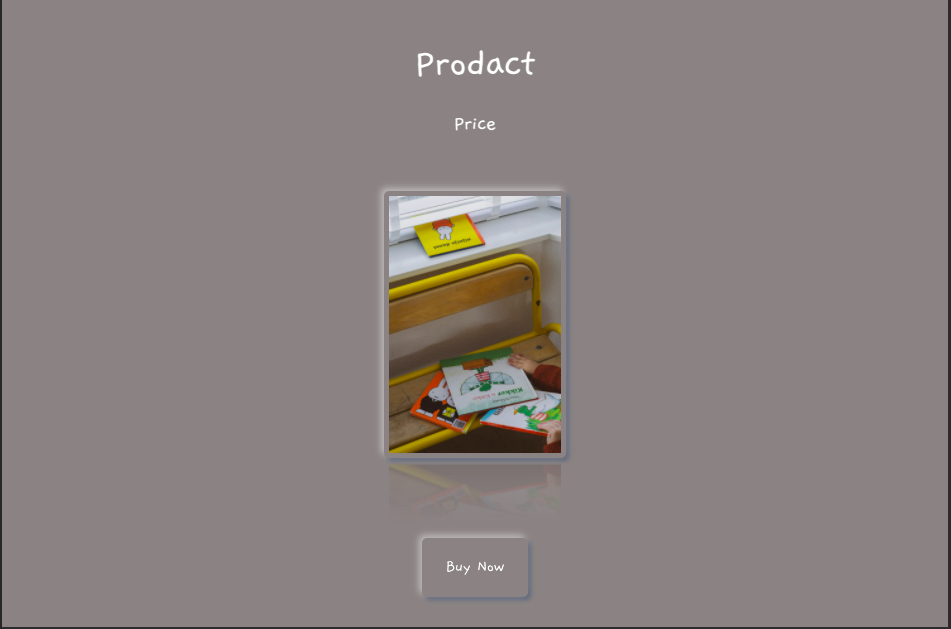
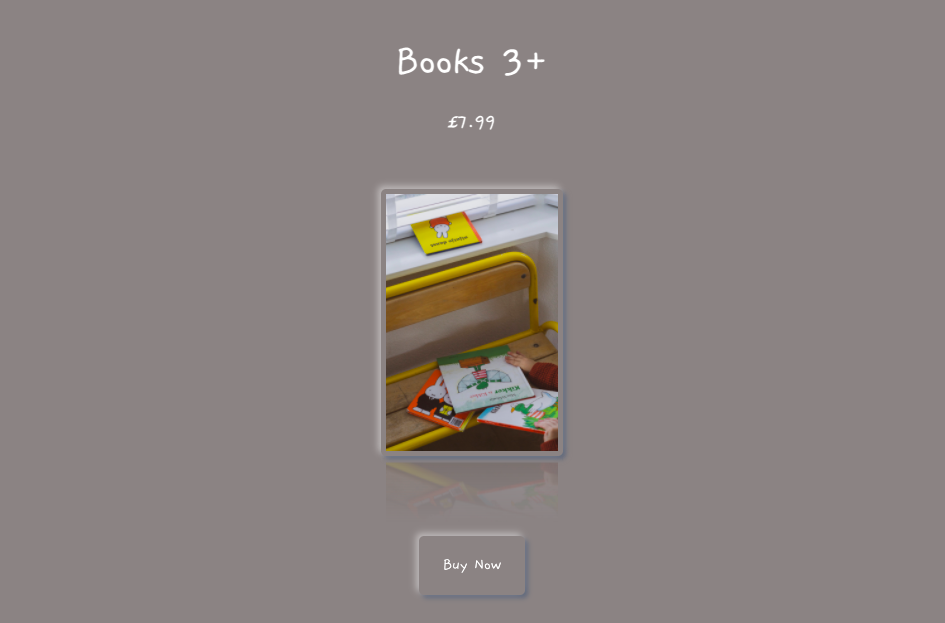
add images

diff --git a/index.html b/index.html
@@ -16,20 +16,20 @@
         <h3>Grab and slide right!!</h3>
       </div>
       <div class="slide">
-        <h2>Product</h2>
-        <h3>Price</h3>
+        <h2>Books 0-3</h2>
+        <h3>£4.99</h3>
         <img src="/images/hello-i-m-nik-m7PaAQkxgxw-unsplash.jpg" alt="" />
         <a href="#" class="btn">Buy Now</a>
       </div>
       <div class="slide">
-        <h2>Prodact</h2>
-        <h3>Price</h3>
+        <h2>Books 3+</h2>
+        <h3>£7.99</h3>
         <img src="/images/sven-brandsma-J6sUD5F6SR4-unsplash.jpg" alt="" />
         <a href="#" class="btn">Buy Now</a>
       </div>
       <div class="slide">
-        <h2>Prodact</h2>
-        <h3>Price</h3>
+        <h2>Books 7+</h2>
+        <h3>£9.99</h3>
         <img src="/images/sven-brandsma-DIYZPjYWHnI-unsplash.jpg" alt="" />
         <a href="#" class="btn">Buy Now</a>
       </div>
